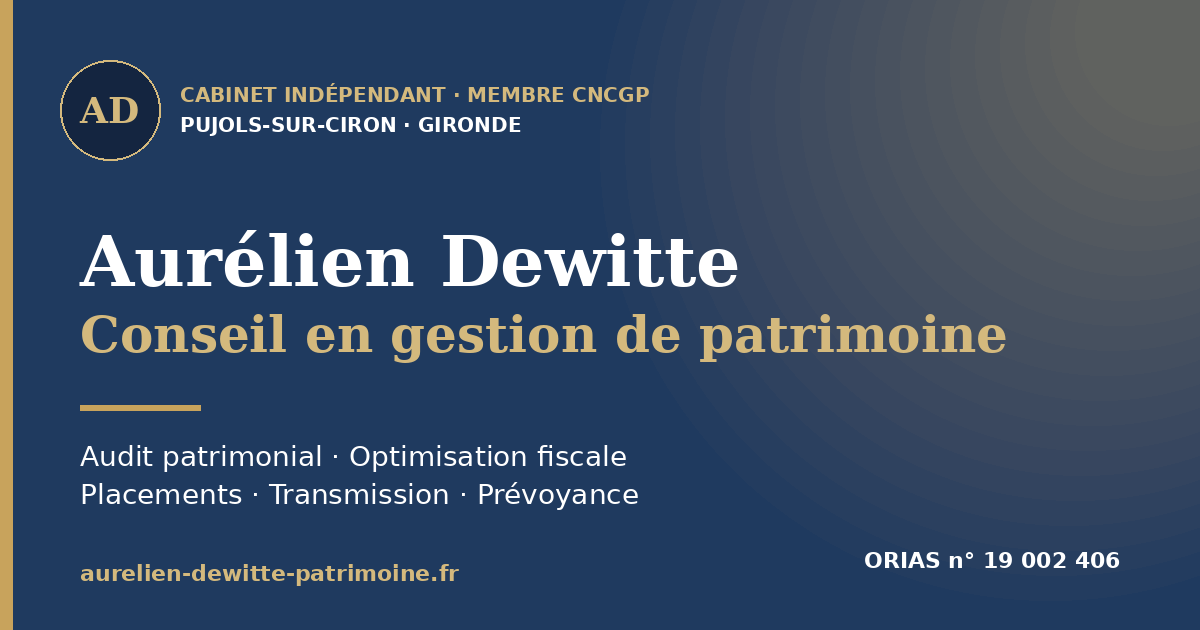
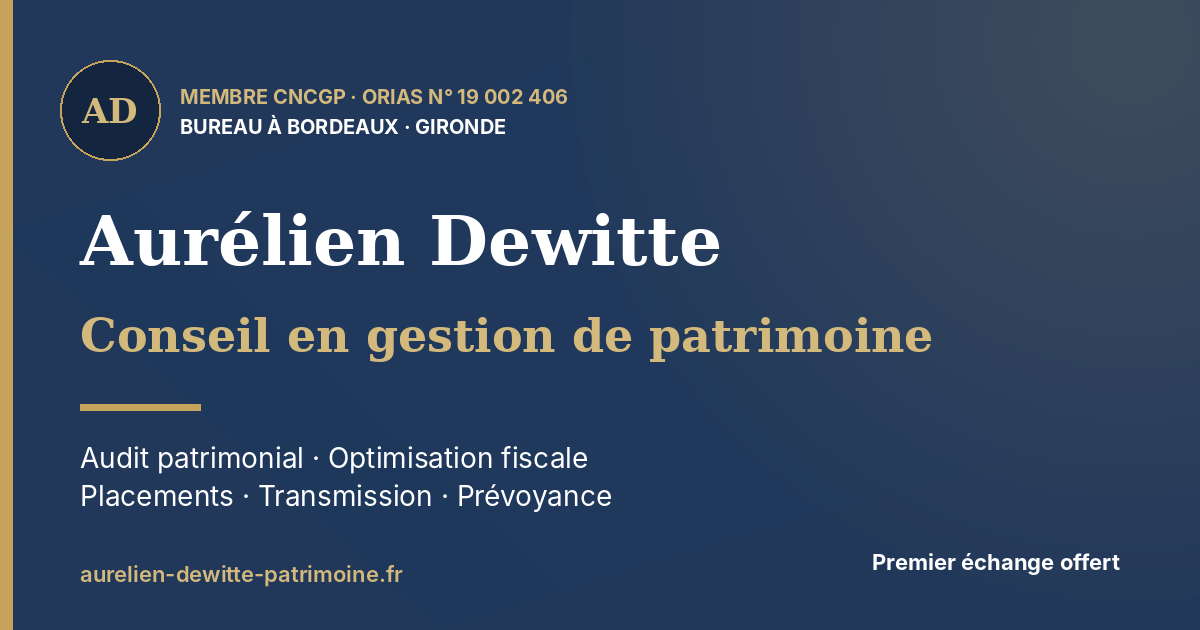
Page d'annonces : confiance, rappel, lazy Calendly ; retrait de « indépendant » ; 42 avis
- /bilan-patrimonial-offert : ligne de confiance (42 avis Google, 400+ clients,
  ORIAS, CNCGP), deux avis récents au-dessus du calendrier, formulaire « Être
  rappelé » (Formspree, form_submit method=rappel_annonce après envoi réussi),
  exemples et liens « Lire l'article » dans « Pour qui ? », phrase d'ancrage
  local, section quiz, Calendly chargé seulement au défilement (data-lazy).
- consent.js : data-form et data-success pour distinguer les formulaires.
- Accueil : « indépendant » retiré (titre, description, partage, JSON-LD,
  portrait, FAQ), 3 avis Google de septembre ajoutés, 42 avis, « vérifiés » retiré.
- og-image.png refaite sans « CABINET INDÉPENDANT ».
- Mentions légales, article PER, article rentrée : formulations alignées.

Claude-Session: https://claude.ai/code/session_01BD9uNvd2RWS2wc2ddk3af2

diff --git a/index.html b/index.html
@@ -15,16 +15,16 @@
 <script src="/assets/calendly.js" defer></script>
 
 
-<title>Conseiller en gestion de patrimoine indépendant – Gironde & Bordeaux | Aurélien Dewitte</title>
-<meta name="description" content="Cabinet indépendant CNCGP basé en Gironde. Audit patrimonial, optimisation fiscale, placement, transmission. Premier rendez-vous gratuit et sans engagement.">
+<title>Conseiller en gestion de patrimoine à Bordeaux | Aurélien Dewitte</title>
+<meta name="description" content="Conseiller en gestion de patrimoine à Bordeaux, membre CNCGP. Audit patrimonial, optimisation fiscale, placements, transmission. Premier rendez-vous gratuit et sans engagement.">
 <meta name="author" content="Aurélien Dewitte">
 <meta name="robots" content="index, follow">
 
 <!-- Open Graph -->
 <meta property="og:type" content="website">
 <meta property="og:locale" content="fr_FR">
-<meta property="og:title" content="Aurélien Dewitte — Conseiller en gestion de patrimoine indépendant">
-<meta property="og:description" content="Cabinet indépendant CNCGP en Gironde. Audit patrimonial, fiscalité, placement, transmission. Premier RDV gratuit.">
+<meta property="og:title" content="Aurélien Dewitte — Conseiller en gestion de patrimoine à Bordeaux">
+<meta property="og:description" content="Conseil en gestion de patrimoine à Bordeaux et en Gironde, membre CNCGP. Audit patrimonial, fiscalité, placements, transmission. Premier RDV gratuit.">
 <meta property="og:image" content="https://aurelien-dewitte-patrimoine.fr/og-image.png">
 <meta property="og:url" content="https://aurelien-dewitte-patrimoine.fr/">
 <link rel="canonical" href="https://aurelien-dewitte-patrimoine.fr/">
@@ -35,7 +35,7 @@
   "@context": "https://schema.org",
   "@type": "FinancialService",
   "name": "Aurélien Dewitte — Conseil en gestion de patrimoine",
-  "description": "Conseiller en gestion de patrimoine indépendant, membre CNCGP. Audit patrimonial, optimisation fiscale, placements, transmission. Intervention à domicile, en entreprise et en visioconférence dans toute la Gironde.",
+  "description": "Conseiller en gestion de patrimoine à Bordeaux, membre CNCGP. Audit patrimonial, optimisation fiscale, placements, transmission. Intervention à domicile, en entreprise et en visioconférence dans toute la Gironde.",
   "url": "https://aurelien-dewitte-patrimoine.fr/",
   "telephone": "+33620880909",
   "email": "aurelien.dewitte@id-cap-mia.fr",
@@ -510,7 +510,7 @@
       <div class="portrait-photo" aria-label="Portrait professionnel d'Aurélien Dewitte"></div>
       <div class="portrait-info">
         <h4>Aurélien Dewitte</h4>
-        <p>Conseiller en gestion de patrimoine indépendant</p>
+        <p>Conseiller en gestion de patrimoine à Bordeaux</p>
         <div class="portrait-badges">
           <span class="badge">CNCGP 2023</span>
           <span class="badge">ORIAS MIA</span>
@@ -525,7 +525,7 @@
 <section class="trust-strip">
   <div class="container trust-strip-grid">
     <div class="trust-stat"><span class="num">400+</span><span class="lbl">Familles & dirigeants accompagnés</span></div>
-    <div class="trust-stat"><span class="num">★★★★★</span><span class="lbl">5,0 · 40 avis Google</span></div>
+    <div class="trust-stat"><span class="num">★★★★★</span><span class="lbl">5,0 · 42 avis Google</span></div>
     <div class="trust-stat"><span class="num">24 h</span><span class="lbl">Délai de réponse moyen</span></div>
     <div class="trust-stat"><span class="num">1</span><span class="lbl">Interlocuteur unique, de l'audit au suivi</span></div>
   </div>
@@ -664,7 +664,7 @@
       <span class="eyebrow">À propos</span>
       <h2>Aurélien Dewitte, votre conseiller à Bordeaux</h2>
       <p>J'exerce le conseil en gestion de patrimoine depuis 2019, et je suis membre de la CNCGP depuis 2023. En sept ans, j'ai accompagné plus de 400 familles, dirigeants et professionnels libéraux, principalement à Bordeaux et en Gironde, où je vis.</p>
-      <p>Mon parcours n'a rien de classique. Avant la gestion de patrimoine, j'ai été électricien et agent de maintenance dans l'industrie et le bâtiment, puis j'ai construit et entretenu des piscines chez des particuliers, avant de travailler en détection de fuites pour des experts d'assurance, des assureurs et des syndics. J'ai ensuite rejoint le réseau Capfinances, puis ID CAP, au sein du même groupe Premium. De ces années de terrain, j'ai gardé le goût du concret, un langage simple et une vraie proximité avec les artisans, les indépendants et les familles que j'accompagne aujourd'hui.</p>
+      <p>Mon parcours n'a rien de classique. Avant la gestion de patrimoine, j'ai été électricien et agent de maintenance dans l'industrie et le bâtiment, puis j'ai construit et entretenu des piscines chez des particuliers, avant de travailler en détection de fuites pour des experts d'assurance, des assureurs et des syndics. J'ai ensuite rejoint le réseau Capfinances, puis ID CAP, au sein du même groupe Premium. De ces années de terrain, j'ai gardé le goût du concret, un langage simple et une vraie proximité avec les artisans, les commerçants et les familles que j'accompagne aujourd'hui.</p>
       <p>Ma conviction est simple : la gestion de patrimoine ne doit pas être réservée aux gros patrimoines. J'accompagne aussi bien un jeune actif qui démarre une épargne à 50 € par mois qu'un dirigeant qui prépare la cession de son entreprise, avec la même exigence.</p>
       <p>Ma façon de travailler : je viens à vous, chez vous, sur votre lieu de travail ou à mon bureau de la rue Surson. Je prends le temps de comprendre votre situation avant de proposer quoi que ce soit, et je reste votre interlocuteur unique dans la durée, avec au minimum un point par an.</p>
       <p class="about-status"><strong>Mon statut, en toute transparence :</strong> mandataire d'intermédiaire en assurance (MIA) pour le compte d'ID CAP, ORIAS n° 19 002 406, membre de la CNCGP, sous le contrôle de l'ACPR. Formé au conseil en investissements financiers, je ne suis pas inscrit en qualité de CIF : pour les placements qui relèvent de ce statut (SCPI ou private equity en direct, comptes-titres), je travaille avec des partenaires habilités.</p>
@@ -720,6 +720,27 @@
     </div>
     <div class="testimonial-grid">
       <div class="testimonial">
+        <p>J'ai fait appel à Aurélien Dewitte pour un bilan patrimonial complet. Il a pris le temps de comprendre ma situation avant de me proposer des solutions adaptées […]</p>
+        <div class="testimonial-author">
+          <div class="testimonial-avatar">PT</div>
+          <div><strong>Pierre T.</strong><span>Avis Google · septembre 2026</span></div>
+        </div>
+      </div>
+      <div class="testimonial">
+        <p>J'ai eu l'occasion d'échanger longuement avec Monsieur Dewitte et j'ai particulièrement apprécié la qualité de son écoute, sa disponibilité et le temps qu'il a […]</p>
+        <div class="testimonial-author">
+          <div class="testimonial-avatar">AJ</div>
+          <div><strong>Agathe J.</strong><span>Avis Google · septembre 2026</span></div>
+        </div>
+      </div>
+      <div class="testimonial">
+        <p>Analyse très pertinente de notre situation et propositions concrètes pour avancer. Très bonne approche et bon contact.</p>
+        <div class="testimonial-author">
+          <div class="testimonial-avatar">FL</div>
+          <div><strong>Fabien L.</strong><span>Avis Google · septembre 2026</span></div>
+        </div>
+      </div>
+      <div class="testimonial">
         <p>Super contact avec Aurélien depuis maintenant 3 ans ! C’est un conseiller bienveillant, professionnel, discret et à l’écoute des différents projets ! Je recommande sans hésiter 😊</p>
         <div class="testimonial-author">
           <div class="testimonial-avatar">SN</div>
@@ -753,7 +774,7 @@
         </svg>
         <div>
           <div class="google-cta-stars">★★★★★</div>
-          <div class="google-cta-text"><strong>5,0 sur 40 avis vérifiés Google</strong><br>Lisez ce que disent mes clients, ou ajoutez votre propre avis.</div>
+          <div class="google-cta-text"><strong>5,0 sur 42 avis Google</strong><br>Lisez ce que disent mes clients, ou ajoutez votre propre avis.</div>
         </div>
       </div>
       <a href="https://share.google/KvCwFTLLdypbulPEu" class="btn btn-primary" target="_blank" rel="noopener" aria-label="Voir nos avis sur Google et en laisser un">Voir nos avis Google →</a>
@@ -774,8 +795,8 @@
         <div>Le premier échange de 30 minutes est gratuit et sans engagement. Au-delà, <strong>dans la grande majorité des cas, mon accompagnement reste gratuit pour vous</strong> : je suis rémunéré par les compagnies d'assurance et les partenaires financiers via des commissions, perçues uniquement si vous décidez de mettre en place une solution. Vous bénéficiez ainsi d'un conseil complet — audit, stratégie, mise en œuvre, suivi annuel — sans débourser un centime. Quelques missions très spécifiques peuvent exceptionnellement faire l'objet d'honoraires forfaitaires (audit pur sans souscription, dossier successoral complexe à fort enjeu) ; ils sont toujours présentés et signés avant tout démarrage, conformément au code de déontologie CNCGP.</div>
       </details>
       <details>
-        <summary>Qu'est-ce qu'un CGP « indépendant » concrètement ?</summary>
-        <div>Cela signifie que je ne suis salarié d'aucune banque ni compagnie d'assurance. Je sélectionne pour chaque client, parmi une large gamme de partenaires, les solutions les mieux adaptées à votre profil. Mes recommandations ne sont jamais dictées par un quota commercial. En toute transparence : j'exerce en tant que mandataire d'intermédiaire en assurance (MIA) pour le compte d'ID CAP, et je suis rémunéré principalement par commissions, comme expliqué ci-dessus.</div>
+        <summary>Êtes-vous lié à une banque ou à une compagnie d'assurance ?</summary>
+        <div>Non : je ne suis salarié d'aucune banque ni compagnie d'assurance. Je sélectionne pour chaque client, parmi une large gamme de partenaires, les solutions les mieux adaptées à votre profil. Mes recommandations ne sont jamais dictées par un quota commercial. En toute transparence : j'exerce en tant que mandataire d'intermédiaire en assurance (MIA) pour le compte d'ID CAP, et je suis rémunéré principalement par commissions, comme expliqué ci-dessus.</div>
       </details>
       <details>
         <summary>Comment se passe un premier rendez-vous ?</summary>

diff --git a/bilan-patrimonial-offert.html b/bilan-patrimonial-offert.html
@@ -47,7 +47,9 @@ header{position:sticky;top:0;z-index:100;background:rgba(255,255,255,.97);border
 .btn-nav{padding:.6rem 1.1rem;background:var(--navy);color:#fff !important;border-radius:8px;text-decoration:none;font-size:.92rem;font-weight:600}
 
 .hero{background:linear-gradient(180deg,var(--cream),#fff);padding:2rem 0 2.2rem}
-.trust{font-size:.88rem;font-weight:600;color:var(--gold-dark);letter-spacing:.02em;margin-bottom:1rem}
+.trust{font-size:.88rem;font-weight:600;color:var(--navy);letter-spacing:.01em;margin-bottom:1rem;line-height:1.5}
+.trust a{color:var(--navy);text-decoration-color:var(--gold)}
+.trust .stars{color:var(--gold-dark);letter-spacing:.05em}
 .lede{font-size:1.02rem;margin-bottom:1.4rem}
 .btn{display:inline-block;padding:1rem 1.6rem;background:var(--navy);color:#fff !important;border-radius:10px;font-weight:600;text-decoration:none;font-size:1rem;text-align:center}
 .btn:hover{background:var(--navy-dark)}
@@ -71,6 +73,23 @@ header{position:sticky;top:0;z-index:100;background:rgba(255,255,255,.97);border
 .calendly-inline[hidden]{display:none}
 .calendly-fallback{display:block;margin:1.2rem}
 .cal-alt{margin-top:1rem;font-size:.95rem;text-align:center}
+.quotes{display:grid;gap:.8rem;margin:0 0 1.4rem}
+.quote{background:var(--cream);border-left:3px solid var(--gold);border-radius:8px;padding:.9rem 1rem}
+.quote p{font-size:.95rem;color:var(--ink);font-style:italic}
+.quote footer,.quote .who{display:block;margin-top:.45rem;font-size:.85rem;font-style:normal;color:var(--ink-soft)}
+.quote .who strong{color:var(--navy)}
+.callback{margin-top:2rem;padding:1.4rem 1.2rem;border:1px solid var(--line);border-radius:12px;background:#fff}
+.callback h3{font-size:1.15rem;margin-bottom:.3rem}
+.callback .hint{font-size:.92rem;margin-bottom:1rem}
+.callback label{display:block;font-size:.9rem;font-weight:600;color:var(--navy);margin:.7rem 0 .3rem}
+.callback input,.callback select{width:100%;padding:.75rem .85rem;border:1px solid var(--line);border-radius:8px;font:inherit;font-size:1rem;color:var(--ink);background:#fff}
+.callback input:focus,.callback select:focus{outline:2px solid var(--gold);outline-offset:1px}
+.callback button{margin-top:1.1rem;width:100%;border:0;cursor:pointer;font-family:inherit}
+.callback .meta{font-size:.82rem;margin-top:.8rem}
+.checks .more{display:block;margin-top:.35rem;font-size:.9rem;color:var(--ink-soft)}
+.checks .more a{font-size:.88rem}
+.not-ready{text-align:center}
+@media (min-width:700px){.quotes{grid-template-columns:1fr 1fr}}
 
 .about{display:flex;gap:1.2rem;align-items:flex-start}
 .about img{width:96px;height:96px;border-radius:50%;object-fit:cover;border:2px solid var(--gold);flex-shrink:0}
@@ -108,7 +127,7 @@ footer a:hover{color:#fff}
 <section class="hero">
   <div class="container">
     <h1>Bilan patrimonial offert avec un conseiller en patrimoine à Bordeaux</h1>
-    <p class="trust">ORIAS n° 19 002 406 · Membre CNCGP · Bureau à Bordeaux</p>
+    <p class="trust"><a href="https://share.google/KvCwFTLLdypbulPEu" target="_blank" rel="noopener"><span class="stars" aria-hidden="true">★★★★★</span> 5,0/5, 42 avis Google</a> · 400+ clients accompagnés · ORIAS 19 002 406 · Membre CNCGP</p>
     <p class="lede">Un premier échange de 30 minutes pour faire le point sur votre situation, en visio ou à mon bureau de Bordeaux. Gratuit et sans engagement.</p>
     <a href="#rdv" class="btn">Réserver mon échange de 30 min</a>
     <p class="phone">Ou appelez-moi : <a href="tel:+33620880909">06 20 88 09 09</a></p>
@@ -119,10 +138,10 @@ footer a:hover{color:#fff}
   <div class="container">
     <h2>Pour qui ?</h2>
     <ul class="checks">
-      <li>Vous payez beaucoup d'impôts et voulez comprendre vos leviers.</li>
-      <li>Vous préparez votre retraite et voulez savoir où vous en êtes.</li>
-      <li>Vous pensez à la transmission de votre patrimoine à vos proches.</li>
-      <li>Vous êtes chef d'entreprise et voulez organiser patrimoine privé et professionnel.</li>
+      <li>Vous payez beaucoup d'impôts et voulez comprendre vos leviers.<span class="more">Exemple : à un taux marginal de 41 %, un versement de 8 000 € sur un PER réduit l'impôt d'environ 3 280 €, dans la limite des plafonds. <a href="/optimisation-fiscale.html" target="_blank" rel="noopener">Lire l'article</a></span></li>
+      <li>Vous préparez votre retraite et voulez savoir où vous en êtes.<span class="more">Exemple : combler 700 € par mois sur vingt-cinq ans de retraite représente environ 210 000 € de capital à constituer. <a href="/preparer-retraite.html" target="_blank" rel="noopener">Lire l'article</a></span></li>
+      <li>Vous pensez à la transmission de votre patrimoine à vos proches.<span class="more">Exemple : chaque parent peut donner 100 000 € à chacun de ses enfants sans droits, et recommencer tous les quinze ans. <a href="/transmission-succession.html" target="_blank" rel="noopener">Lire l'article</a></span></li>
+      <li>Vous êtes chef d'entreprise et voulez organiser patrimoine privé et professionnel.<span class="more">Exemple : les indemnités de la Sécurité sociale sont plafonnées ; un arrêt de travail long peut fragiliser à la fois votre foyer et votre activité. <a href="/prevoyance-protection.html" target="_blank" rel="noopener">Lire l'article</a></span></li>
     </ul>
   </div>
 </section>
@@ -143,11 +162,43 @@ footer a:hover{color:#fff}
   <div class="container">
     <h2>Réservez votre créneau</h2>
     <p class="cal-intro">Choisissez l'horaire qui vous arrange. Confirmation immédiate par email.</p>
+    <div class="quotes">
+      <blockquote class="quote">
+        <p>« J'ai fait appel à Aurélien Dewitte pour un bilan patrimonial complet. Il a pris le temps de comprendre ma situation avant de me proposer des solutions adaptées […] »</p>
+        <span class="who"><strong>Pierre T.</strong> · Avis Google, septembre 2026</span>
+      </blockquote>
+      <blockquote class="quote">
+        <p>« Analyse très pertinente de notre situation et propositions concrètes pour avancer. Très bonne approche et bon contact. »</p>
+        <span class="who"><strong>Fabien L.</strong> · Avis Google, septembre 2026</span>
+      </blockquote>
+    </div>
     <div class="calendly-box">
-      <div id="calendly-inline" class="calendly-inline" data-resize="true" data-url="https://calendly.com/partenariat-idcap/30min?hide_event_type_details=1" hidden></div>
+      <!-- data-lazy : le calendrier ne se charge qu'à l'approche de cette section (voir assets/calendly.js) -->
+      <div id="calendly-inline" class="calendly-inline" data-resize="true" data-lazy data-url="https://calendly.com/partenariat-idcap/30min?hide_event_type_details=1" hidden></div>
       <a href="https://calendly.com/partenariat-idcap/30min" class="btn calendly-fallback" target="_blank" rel="noopener">Ouvrir le calendrier de RDV</a>
     </div>
     <p class="cal-alt">Vous préférez appeler ? <a href="tel:+33620880909">06 20 88 09 09</a></p>
+
+    <!-- Envoi à Formspree géré par assets/consent.js : form_submit n'est envoyé qu'après un envoi réussi. -->
+    <form class="callback" action="https://formspree.io/f/xqejaavq" method="POST" data-form="rappel_annonce" data-success="Merci, votre demande de rappel est bien envoyée|Je vous rappelle sous 24 h (jours ouvrés) sur le créneau indiqué.">
+      <h3>Être rappelé</h3>
+      <p class="hint">Laissez votre numéro, je vous rappelle. Réponse sous 24 h (jours ouvrés).</p>
+      <input type="hidden" name="_subject" value="Demande de rappel (page bilan patrimonial offert)">
+      <input type="text" name="_gotcha" style="display:none" tabindex="-1" autocomplete="off">
+      <label for="cb-prenom">Prénom</label>
+      <input type="text" id="cb-prenom" name="prenom" autocomplete="given-name" required>
+      <label for="cb-tel">Téléphone</label>
+      <input type="tel" id="cb-tel" name="telephone" autocomplete="tel" inputmode="tel" required>
+      <label for="cb-creneau">Créneau préféré</label>
+      <select id="cb-creneau" name="creneau" required>
+        <option value="">Choisir…</option>
+        <option>Matin</option>
+        <option>Après-midi</option>
+        <option>Soir</option>
+      </select>
+      <button type="submit" class="btn">Être rappelé</button>
+      <p class="meta">Votre numéro sert uniquement à vous rappeler et n'est jamais cédé (<a href="/confidentialite.html" target="_blank" rel="noopener">politique de confidentialité</a>).</p>
+    </form>
   </div>
 </section>
 
@@ -158,6 +209,7 @@ footer a:hover{color:#fff}
       <img src="/assets/photo-pro-240.jpg" alt="Aurélien Dewitte" width="96" height="96" loading="lazy">
       <div>
         <p><strong>Aurélien Dewitte</strong>, conseiller en gestion de patrimoine à Bordeaux depuis 2019, membre de la CNCGP depuis 2023. J'accompagne des familles, des dirigeants et des professionnels libéraux en Gironde, avec un interlocuteur unique dans la durée.</p>
+        <p>Bureau à Bordeaux, rendez-vous aussi à Mérignac, Pessac, Talence, Le Bouscat, Saint-Médard-en-Jalles, ou en visio.</p>
         <p class="status">Mandataire d'intermédiaire en assurance (MIA) pour le compte d'ID CAP, ORIAS n° 19 002 406, membre de la CNCGP, sous le contrôle de l'ACPR.</p>
       </div>
     </div>
@@ -184,6 +236,13 @@ footer a:hover{color:#fff}
       <p>Rien d'obligatoire pour ce premier échange. Si vous les avez sous la main, votre dernier avis d'imposition et la liste de vos placements et contrats (assurance-vie, PER, livrets, crédits) permettent d'aller plus vite.</p>
     </details>
     <p class="final" style="margin-top:1.6rem"><a href="#rdv" class="btn">Réserver mon échange de 30 min</a></p>
+  </div>
+</section>
+
+<section class="alt not-ready">
+  <div class="container">
+    <h2>Pas encore prêt à échanger ?</h2>
+    <p><a href="/quiz-patrimoine.html" target="_blank" rel="noopener">Faites le point en 2 minutes</a> avec le quiz patrimoine.</p>
   </div>
 </section>
 

diff --git a/rentree-patrimoniale.html b/rentree-patrimoniale.html
@@ -179,7 +179,7 @@ footer a:hover{color:#fff}
 <h2>3. Vérifier et arbitrer votre assurance-vie</h2>
 <p>Vos contrats d'assurance-vie méritent un point annuel systématique. Trois vérifications sont particulièrement rentables en cette période.</p>
 <p><strong>L'allocation</strong> : la répartition entre fonds euros, unités de compte et supports immobiliers a-t-elle été ajustée à l'évolution des marchés et à votre horizon ? Un contrat non révisé depuis trois ou cinq ans est presque toujours sous-optimisé.</p>
-<p><strong>Les frais</strong> : entre un contrat récent chez un cabinet indépendant et un contrat souscrit il y a dix ans dans un réseau bancaire, l'écart de frais annuels peut représenter 0,5 à 1 % de rendement en moins chaque année — soit plusieurs dizaines de milliers d'euros perdus sur une génération.</p>
+<p><strong>Les frais</strong> : entre un contrat récent chez un cabinet de conseil et un contrat souscrit il y a dix ans dans un réseau bancaire, l'écart de frais annuels peut représenter 0,5 à 1 % de rendement en moins chaque année — soit plusieurs dizaines de milliers d'euros perdus sur une génération.</p>
 <p><strong>La clause bénéficiaire</strong> : elle vieillit rarement bien. Un divorce, une naissance, un décès dans l'entourage, une brouille familiale : autant d'événements qui devraient déclencher une révision. Une clause mal rédigée peut anéantir l'intérêt successoral de votre contrat.</p>
 <h2>4. Anticiper la transmission avec les abattements sur donations</h2>
 <p>C'est la vérification que la plupart des Français oublient — et qui coûte le plus cher au moment du décès. Chaque parent peut donner jusqu'à <strong>100 000 € par enfant tous les 15 ans</strong>, en franchise totale de droits de donation. Les grands-parents disposent aussi de leur propre abattement de 31 865 € par petit-enfant, également tous les 15 ans.</p>

diff --git a/assets/consent.js b/assets/consent.js
@@ -136,12 +136,18 @@
     fetch(f.action, { method: 'POST', body: new FormData(f), headers: { Accept: 'application/json' } })
       .then(function (r) {
         if (!r.ok) throw new Error('Formspree ' + r.status);
-        track('form_submit', { method: 'formulaire_contact', page: location.pathname });
+        track('form_submit', { method: f.getAttribute('data-form') || 'formulaire_contact', page: location.pathname });
+        /* data-success="Titre|Texte" : message de confirmation propre à un formulaire */
+        var msg = (f.getAttribute('data-success') || '').split('|');
+        var title = msg[0] || 'Merci, votre demande est bien envoyée';
+        var text = msg[1] || 'Je vous réponds sous 24 h ouvrées.';
         var done = document.createElement('div');
         done.setAttribute('role', 'status');
         done.style.cssText = 'padding:2rem 1rem;text-align:center';
-        done.innerHTML = '<h3 style="font-family:\'Playfair Display\';margin-bottom:.8rem">Merci, votre demande est bien envoyée</h3>' +
-          '<p>Je vous réponds sous 24 h ouvrées. Pour une question urgente : <a href="tel:+33620880909">06 20 88 09 09</a>.</p>';
+        done.innerHTML = '<h3 style="font-family:\'Playfair Display\';margin-bottom:.8rem"></h3>' +
+          '<p><span></span> Pour une question urgente : <a href="tel:+33620880909">06 20 88 09 09</a>.</p>';
+        done.querySelector('h3').textContent = title;
+        done.querySelector('span').textContent = text;
         f.innerHTML = '';
         f.appendChild(done);
       })

diff --git a/assets/calendly.js b/assets/calendly.js
@@ -1,5 +1,6 @@
 /* Prise de rendez-vous Calendly.
    - Accueil : calendrier intégré dans la section contact (chargé à l'approche).
+     Avec data-lazy (page d'annonces), il n'est chargé qu'au défilement.
    - Autres liens Calendly : le calendrier s'ouvre par-dessus la page.
    - rdv_calendly n'est envoyé qu'à la confirmation d'une réservation
      (message calendly.event_scheduled), une seule fois par invité.
@@ -121,10 +122,11 @@
         if (fb) fb.style.display = 'none';
       });
     };
+    /* data-lazy : chargement seulement quand la section est presque à l'écran */
     if ('IntersectionObserver' in window) {
       var io = new IntersectionObserver(function (entries) {
         if (entries.some(function (en) { return en.isIntersecting; })) { io.disconnect(); start(); }
-      }, { rootMargin: '600px 0px' });
+      }, { rootMargin: box.hasAttribute('data-lazy') ? '150px 0px' : '600px 0px' });
       io.observe(box.parentNode);
     } else {
       start();
@@ -172,7 +174,9 @@
 
   function init() {
     initInline();
-    if (document.querySelector(SELECTOR)) {
+    /* Pas de préchargement du widget sur une page dont le calendrier est en data-lazy */
+    var lazy = document.querySelector('#calendly-inline[data-lazy]');
+    if (!lazy && document.querySelector(SELECTOR)) {
       window.addEventListener('load', function () { setTimeout(loadWidget, 1500); });
     }
   }

diff --git a/per-vs-assurance-vie.html b/per-vs-assurance-vie.html
@@ -12,7 +12,7 @@
 <meta property="og:type" content="article">
 <meta property="og:locale" content="fr_FR">
 <meta property="og:title" content="PER ou Assurance-vie : lequel choisir en 2026 ? | Aurélien Dewitte">
-<meta property="og:description" content="Le comparatif détaillé pour choisir entre PER et assurance-vie : fiscalité, disponibilité, transmission. Décryptage par un conseiller en gestion de patrimoine indépendant.">
+<meta property="og:description" content="Le comparatif détaillé pour choisir entre PER et assurance-vie : fiscalité, disponibilité, transmission. Décryptage par un conseiller en gestion de patrimoine à Bordeaux.">
 <meta property="og:image" content="https://aurelien-dewitte-patrimoine.fr/og-image.png">
 <meta property="og:url" content="https://aurelien-dewitte-patrimoine.fr/per-vs-assurance-vie.html">
 <link rel="canonical" href="https://aurelien-dewitte-patrimoine.fr/per-vs-assurance-vie.html">

diff --git a/mentions-legales.html b/mentions-legales.html
@@ -15,7 +15,7 @@
 
 
 <title>Mentions légales | Aurélien Dewitte — Conseil en gestion de patrimoine</title>
-<meta name="description" content="Mentions légales du cabinet Aurélien Dewitte, conseiller en gestion de patrimoine indépendant en Gironde. ORIAS, CNCGP, ACPR, RCP.">
+<meta name="description" content="Mentions légales du cabinet Aurélien Dewitte, conseiller en gestion de patrimoine à Bordeaux et en Gironde. ORIAS, CNCGP, ACPR, RCP.">
 <meta name="robots" content="noindex, follow">
 <link rel="preconnect" href="https://fonts.googleapis.com">
 <link rel="preconnect" href="https://fonts.gstatic.com" crossorigin>
